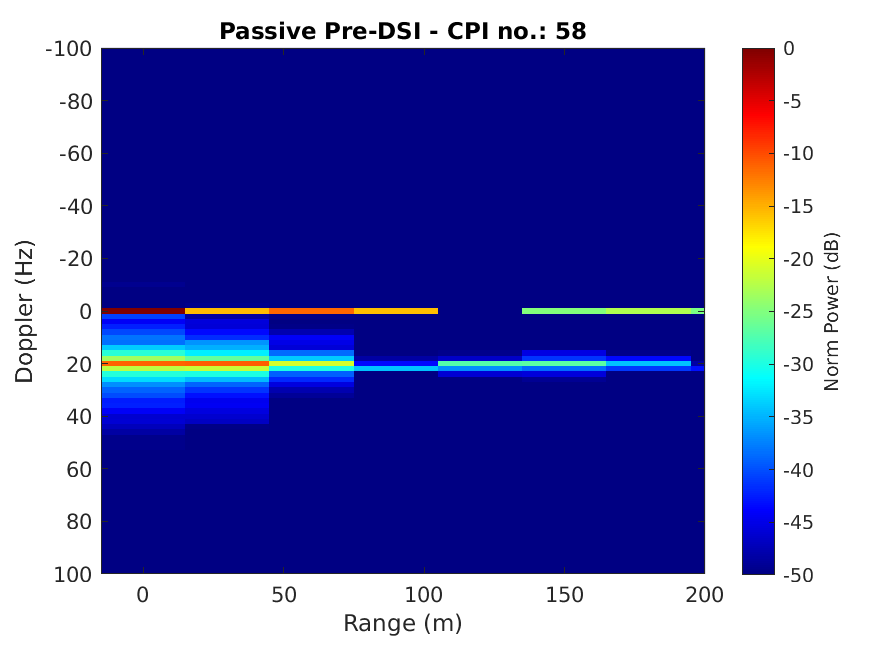
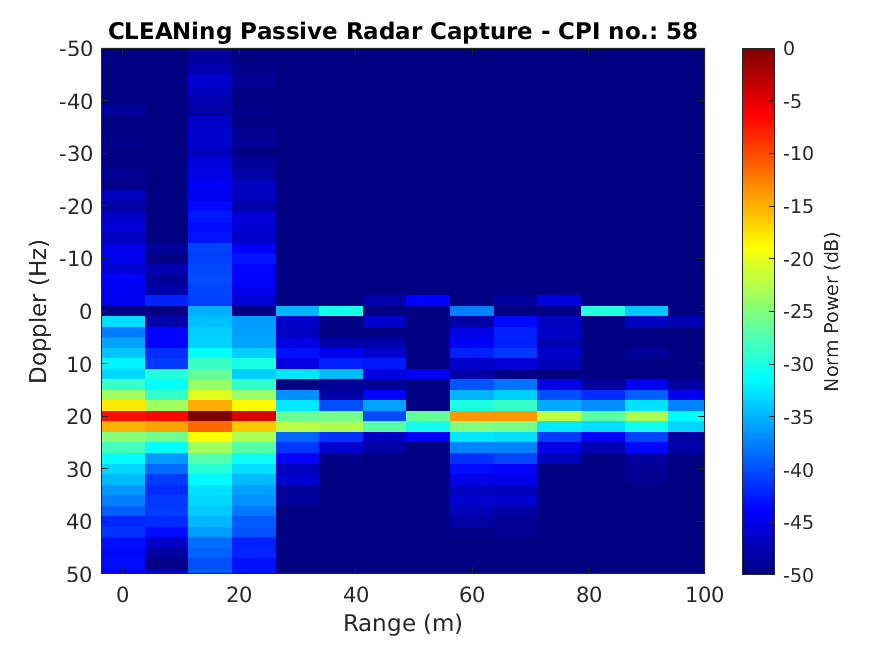
update from precsion tower

diff --git a/hybrid_radar/Analysis Scripts/hybrid_fmcw_DVBT_analysis.m b/hybrid_radar/Analysis Scripts/hybrid_fmcw_DVBT_analysis.m
@@ -4,6 +4,8 @@ addpath('~/repos/bladeRAD/generic_scripts/matlab',...
         '~/repos/bladeRAD/generic_scripts',...
         '~/repos/bladeRAD/generic_scripts/ref_signals/') % path to generic functions
 
+save_directory1 =  "/media/piers/T7/15_09_2022_farm/hybrid/";
+
 process_active_a = true;
 process_passive_a = true;
  
@@ -147,8 +149,8 @@ if process_active_a == true
 %% Process Active data into Range-Doppler Slices
            active.cpi = 0.5; % cohernet proccessing interval (s)
            active.cpi_overlap = 0.5; % overlap between CPIs (watch this - too large will cause slow exceution)
-           active.zero_padding = 1;
-           active.doppler_window = 'blackmanharris';
+           active.zero_padding = 2; % 1 = none; 2 = 100%
+           active.doppler_window = 'Hann';
            active.dynamic_range = 50;
            active.velocity_conv = C*(((1/C)/(active.Fc/C)));
                  active.range_bins = size(MTI_Data,1);
@@ -162,14 +164,14 @@ if process_active_a == true
                                                                  active.doppler_window);   
            
            % Determine Active Data Range and Doppler Axis                                              
-             active.doppler_bins = active.pulses_per_cpi*active.zero_padding;
-             active.doppler_axis = linspace(-active.PRF/2,active.PRF/2,active.doppler_bins);
+             active.doppler_bins = 1:size(active.range_doppler_slices{1},1);
+             active.doppler_axis = linspace(-active.PRF/2,active.PRF/2,size(active.doppler_bins,2));
              active.doppler_velocity_axis = active.doppler_axis * active.velocity_conv;
              active.range_axis = linspace(0,active.max_range_actual,active.range_bins);
              active.range_bins_axis = 1:active.range_bins;
 
            % Create video of range-Doppler slices
-             video_name = exp_dir + "active_range-Doppler_0ZP_hann_wind_Dopppler_Exp_" + Experiment_ID + ".avi";
+             video_name = exp_dir + "active_range-Doppler_0Zactive.range_doppler_slicesP_hann_wind_Dopppler_Exp_" + Experiment_ID + ".avi";
              %video_name = "range-Doppler_log_Exp_" + Experiment_ID + ".avi";       
              video_title = "Active Radar Capture";
              dynamic_range = +50;
@@ -190,7 +192,8 @@ end
 
  %% Passive Processing
  if process_passive_a == true
-    passive.max_range = 70
+    passive.max_range = 50
+    passive.range_zero_padding = 2; % 1 = none, 2 = 100%
     passive.seg_s = 5000; % number of segments per second - analagos to PRF.
     passive.seg_percent = 100;  % percentage of segment used for cross coreclation of 
                             % survallance and reference. Will affect SNR dramatically.
@@ -208,8 +211,8 @@ end
              title("Sur channel time series");    
              fig_name = exp_dir + "Time Domain Signals_" + Experiment_ID + ".jpg";
              saveas(fig,fig_name,'jpeg')
-   % Batch process data and cross correlate  
-         [ref_matrix ,self_ambg_matrix, cc_matrix] = passive_batch_process(ref_channel,sur_channel,passive.seg_s,passive.seg_percent,passive.Fs,passive.max_range,exp_dir);
+   % Batch process data and cross correlate
+         [ref_matrix ,self_ambg_matrix, cc_matrix] = passive_batch_process(ref_channel,sur_channel,passive.seg_s,passive.seg_percent,passive.Fs,passive.max_range,exp_dir,passive.range_zero_padding);
          save(exp_dir + 'passive_matrix','cc_matrix')
     % RTI Plot
         RTI_plot= transpose(10*log10(abs(cc_matrix./max(cc_matrix(:)))));
@@ -217,8 +220,7 @@ end
         time_axis = linspace(0,capture_duration,size(cc_matrix,2));
         figure
         fig = imagesc(Range_bin,time_axis,RTI_plot,[-50,0]);
-            xlim([1 20])
-%             ylim([0 0.0005])
+%             xlim([1 20])
             grid on            
             colorbar
             ylabel('Time (Sec)')
@@ -228,6 +230,7 @@ end
             fig_name = exp_dir + "Passive RTI_" + Experiment_ID + ".jpg";
             saveas(fig,fig_name,'jpeg')
             saveas(fig,fig_name)
+
 
       % CAF of entire capture
         f_axis = linspace(-passive.seg_s/2,passive.seg_s/2,size(cc_matrix,2));
@@ -254,7 +257,7 @@ end
         pad_factor = 1;
         overlap_factor = 0.99;
         [spect,f] = spectrogram(int_bins,l_fft,round(l_fft*overlap_factor),l_fft*pad_factor,passive.seg_s,'centered','yaxis');
-        % spect(pad_factor*l_fft/2-1:pad_factor*l_fft/2+1,:) = 0;
+        % spect(pad_factor*l_fft/2-1Blackman-Harris:pad_factor*l_fft/2+1,:) = 0;
         v=dop2speed(f,C/passive.Fc)*2.237;
         spect= 10*log10(abs(spect./max(spect(:))));
         figure
@@ -276,21 +279,21 @@ end
            passive.PRF = passive.seg_s; %seg_s
            passive.cpi = 0.5; % cohernet proccessing interval (s)
            passive.cpi_overlap = 0.5; % overlap between CPIs (watch this - too large will cause slow exceution)
-           passive.doppler_window = 'hann';
-           passive.zero_padding = 1;
+           passive.doppler_window = 'Hann';
+           passive.dopp_zero_padding = 1;
            passive.dynamic_range = +50;
-           passive.max_range_m = passive.max_range*(1/passive.Fs)/passive.zero_padding * C;      
+           passive.max_range_m = passive.max_range*(1/passive.Fs)/passive.range_zero_padding * C/2;      
      
                 [passive.number_cpi,... 
                  passive.pulses_per_cpi,...
                  passive.range_doppler_slices] = rangeDopplerSlice(cc_matrix,passive.cpi,passive.PRF,...
                                                                    passive.cpi_overlap,...
-                                                                   passive.zero_padding,...
+                                                                   passive.dopp_zero_padding,...
                                                                    passive.doppler_window);  
                 
                  [~,~,passive.self_ambg_slices] = rangeDopplerSlice(self_ambg_matrix,passive.cpi,passive.PRF,...
                                                                    passive.cpi_overlap,...
-                                                                   passive.zero_padding,...
+                                                                   passive.dopp_zero_padding,...
                                                                    passive.doppler_window);  
             
             passive.cpi_stride = round(passive.pulses_per_cpi*(1-passive.cpi_overlap)); % number of pulses to stride each for next CPI
@@ -306,7 +309,7 @@ end
              video_name = exp_dir + "Range_Doppler_Slices" + Experiment_ID + ".avi";
              %video_name = "passive_RangeDoppler_CLEANed_log_Exp_" + Experiment_ID + ".avi";       
              video_title = "Passive Pre-DSI";
-             dynamic_range = +50;
+             dynamic_range = +inf;
              max_range = 200;
              max_doppler = 100;
              frame_rate = 1/(capture_duration/passive.number_cpi);    
@@ -322,7 +325,7 @@ end
                         % integer less than one to avoid unwanted discontinuities
                         % arising from zero values in the range–Doppler surface.
      threshold = 0.005; % cutoff threshold parameter
-     max_iterations = 100; % maximum number of itterations DSI is CLEANed from CAF slice
+     max_iterations = 1000; % maximum number of itterations DSI is CLEANed from CAF slice
      number_rbins = size(passive.range_doppler_slices{1},2);
   
    % perform CLEAN based DSI Cancellation   
@@ -344,8 +347,8 @@ close all
      %video_name = "passive_RangeDoppler_CLEANed_log_Exp_" + Experiment_ID + ".avi";       
      video_title = "CLEANing Passive Radar Capture";
      dynamic_range = 50;
-     max_range = 200;
-     max_doppler = 100;
+     max_range = 100;
+     max_doppler = 50;
      frame_rate = 1/(capture_duration/passive.number_cpi);    
      createVideo(passive.CLEANed_range_doppler_slices,frame_rate,...
                  passive.range_axis,max_range,...
@@ -388,42 +391,46 @@ end
 %% Hybrid Video 
  
    video_name = exp_dir + "hybrid_range-Doppler_Exp_" + Experiment_ID + ".avi";     
-   dynamic_range = 30;
-            createVideos(cpi_matrix_array_norm,...
-                         CLEANed_cpi_matrix_array_norm,...
+   dynamic_range = 50;
+   range_limit = 200;
+   doppler_limit = 20;
+            createVideos(active.range_doppler_slices,...
+                         passive.CLEANed_range_doppler_slices,...
                          frame_rate,...
                          active.range_axis,...
                          passive.range_axis,...
                          -active.doppler_velocity_axis,...
                          passive.doppler_velocity_axis,...
+                         range_limit,...
+                         doppler_limit,...
                          dynamic_range,...
                          video_name,video_title);
                      
 %% Hybrid Range and Doppler Plots 
 
-number_cpi = size(CLEANed_cpi_matrix_array_norm,2);
+number_cpi = size(passive.CLEANed_range_doppler_slices,2);
 passive_range_detections = zeros(number_cpi,1);
 active_range_detections = zeros(number_cpi,1);
 passive_doppler_detections = zeros(number_cpi,1);
 active_doppler_detections = zeros(number_cpi,1);
                      
-passive_range_lookup = ones(size(CLEANed_cpi_matrix_array_norm{1})).*passive.range_axis;
-passive_doppler_lookup = ones(size(CLEANed_cpi_matrix_array_norm{1})).*transpose(passive.doppler_velocity_axis);
+passive_range_lookup = ones(size(passive.CLEANed_range_doppler_slices{1})).*passive.range_axis;
+passive_doppler_lookup = ones(size(passive.CLEANed_range_doppler_slices{1})).*transpose(passive.doppler_velocity_axis);
 
-active_range_lookup = ones(size(cpi_matrix_array_norm{1})).*active.range_axis;
+active_range_lookup = ones(size(active.range_doppler_slices{1})).*active.range_axis;
 
-active_doppler_lookup = ones(size(cpi_matrix_array_norm{1})).*transpose(active.doppler_velocity_axis);
+active_doppler_lookup = ones(size(active.range_doppler_slices{1})).*transpose(active.doppler_velocity_axis);
 
 for i=1:number_cpi   
    i
-   [mag, index] = max(CLEANed_cpi_matrix_array_norm{i}(:));
-   passive_range_detections(i) = passive_range_lookup(index);
+   [mag, index] = max(passive.CLEANed_range_doppler_slices{i}(:));
+   passive_range_detections(i) = passive_range_lookup(index)+10;
    passive_doppler_detections(i) = passive_doppler_lookup(index);
    
    
-%    [mag, index] = max(cpi_matrix_array_norm{i}(:));
-%    active_range_detections(i) = active_range_lookup(index);
-%    active_doppler_detections(i) = active_doppler_lookup(index);                  
+   [mag, index] = max(active.range_doppler_slices{i}(:));
+   active_range_detections(i) = active_range_lookup(index);
+   active_doppler_detections(i) = active_doppler_lookup(index);                  
 end
 
 time_axis = linspace(0,15,number_cpi);
@@ -431,14 +438,14 @@ time_axis = linspace(0,15,number_cpi);
 figure
 p = plot(time_axis,passive_range_detections);
 hold on
-% a = plot(time_axis,active_range_detections);
+a = plot(time_axis,active_range_detections);
 p.Marker = '*';
-% a.Marker = '*';
+a.Marker = '*';
 grid on
 grid minor
 ylabel('Range (m)')
 xlabel('Time (s)')
-ylim([-inf 50])
+% ylim([-inf 50])
 legend('Passive Radar Peak Return','Active Radar Peak Return')
 
 figure
@@ -449,9 +456,9 @@ p.Marker = '*';
 a.Marker = '*';
 grid on
 grid minor
-ylim([-8 8])
+% ylim([-8 8])
 ylabel('Velocity (m/s)')
 xlabel('Time (s)')
 legend('Passive Radar Peak Return','Active Radar Peak Return')
 
-end
+% end

diff --git a/generic_scripts/matlab/passive_batch_process.m b/generic_scripts/matlab/passive_batch_process.m
@@ -1,4 +1,4 @@
-function [dec_ref_channel, self_ambg_matrix, cc_matrix] = passive_batch_process(ref_channel,sur_channel,seg_s,seg_percent,Fs,max_range,exp_dir)
+function [dec_ref_channel, self_ambg_matrix, cc_matrix] = passive_batch_process(ref_channel,sur_channel,seg_s,seg_percent,Fs,max_range,exp_dir,zero_padding)
 %PASSIVE_BATCH_PROCESS Summary of this function goes here
 %   seg_s : number of segments a second. 
 %   seg_percent : percentage of segment used for cross coreclation of 
@@ -35,9 +35,12 @@ function [dec_ref_channel, self_ambg_matrix, cc_matrix] = passive_batch_process(
 %% Window Sur channel
         for i=1:size(seg_ref_channel,2)
         dec_sur_channel(:,i) = windowing(dec_sur_channel(:,i), "Blackman-Harris");
+        dec_ref_channel(:,i) = windowing(dec_ref_channel(:,i), "Blackman-Harris");
         end
 
 %% Cross-Correlate segments of ref and sur
+if zero_padding == 1
+% Time domain implementation
         cc_matrix = complex(zeros((2*max_range)+1, (size(ref_channel,1)/seg_size)));
         ref_self_ambg = complex(zeros((2*max_range)+1, (size(ref_channel,1)/seg_size)));
     % range limited Xcorr
@@ -47,4 +50,39 @@ function [dec_ref_channel, self_ambg_matrix, cc_matrix] = passive_batch_process(
         end
         cc_matrix = cc_matrix(max_range+1:end,:); %take zero shifted to +r_max shifted range bins
         self_ambg_matrix = ref_self_ambg(max_range+1:end,:); %take zero shifted to +r_max shifted range bins
+else
+    % Frequency domain implementation
+        cc_matrix = complex(zeros((2*seg_size)*zero_padding-1, (size(ref_channel,1)/seg_size)));
+        ref_self_ambg = complex(zeros((2*seg_size)*zero_padding-1, (size(ref_channel,1)/seg_size)));
+    % range limited Xcorr
+        for i=1:size(seg_ref_channel,2)
+            
+            % make arrays
+            sur_ch = [ complex(zeros(seg_size-1,1)).' dec_sur_channel(:,i).' ];
+            ref_ch = [ dec_ref_channel(:,i).' complex(zeros(seg_size-1,1)).'  ];
+
+            % Compute FFTs
+            X1 = fft(sur_ch);
+            X2 = fft(ref_ch);
+            % Compute cross-correlation
+            X = X1.*conj(X2);
+            ck = ifft((X),size(cc_matrix,1));
+            cc_matrix(:,i) = ck;      
+
+             % make arrays
+            r1 = [ complex(zeros(seg_size-1,1)).' dec_ref_channel(:,i).' ];
+            r2 = [ dec_ref_channel(:,i).' complex(zeros(seg_size-1,1)).'  ];
+            % Compute FFTs
+            X3 = fft(r1);
+            X4 = fft(r2);
+            % Compute cross-correlation
+            X5 = X3.*conj(X4);
+            sa = ifft((X5),size(ref_self_ambg,1));
+            ref_self_ambg(:,i) = sa;    
+        end
+        hw_point = size(cc_matrix,1)/2;
+        cc_matrix = cc_matrix(hw_point:hw_point+max_range,:); %take zero shifted to +r_max shifted range bins
+        self_ambg_matrix = ref_self_ambg(hw_point:hw_point+max_range,:); %take zero shifted to +r_max shifted range bins
+
+
 end

diff --git a/generic_scripts/matlab/windowing.m b/generic_scripts/matlab/windowing.m
@@ -1,4 +1,4 @@
-function [outputArg1] = windowing(surv_ch, window_function)
+function [outputArg1] = windowing(data, window_function)
 %Applies the specified window function on the surveillance channel.
 %         Description:
 %         ------------
@@ -20,22 +20,22 @@ function [outputArg1] = windowing(surv_ch, window_function)
 %         --------------
 %         
         if window_function == "Rectangular"
-            window = ones(size(surv_ch,1));
+            window = ones(size(data,1));
         elseif window_function == "Flat top"
-            window = flattopwin(size(surv_ch,1));
+            window = flattopwin(size(data,1));
         elseif window_function == "Hamming"
-            window = hamming(size(surv_ch,1));
+            window = hamming(size(data,1));
         elseif window_function == "Hann"
-            window = hann(size(surv_ch,1));
+            window = hann(size(data,1));
 %         elseif window_function == "Tukey":
 %             window = signal.tukey(size(surv_ch))
         elseif window_function == "Blackman"
-            window = blackman(size(surv_ch,1));
+            window = blackman(size(data,1));
         elseif window_function == "Blackman-Harris"
-            window = blackmanharris(size(surv_ch,1));
+            window = blackmanharris(size(data,1));
         else
             print("Window function is not identified");
         end
-        outputArg1 = surv_ch .* window;
+        outputArg1 = data .* window;
 
         end

diff --git a/generic_scripts/matlab/createVideos.m b/generic_scripts/matlab/createVideos.m
@@ -1,4 +1,4 @@
-function createVideo(active_array,passive_array,frame_rate,active_range_axis, passive_range_axis, active_doppler_axis,passive_doppler_axis,dynamic_range,file_name,video_title)
+function createVideo(active_array,passive_array,frame_rate,active_range_axis, passive_range_axis, active_doppler_axis,passive_doppler_axis,range_limit,doppler_limit,dynamic_range,file_name,video_title)
 %CREATE_VIDEO Summary of this function goes here
 %   Detailed explanation goes here
 % create the video writer
@@ -24,9 +24,8 @@ function createVideo(active_array,passive_array,frame_rate,active_range_axis, pa
         xlabel('Range (m)')   
         c = colorbar;
         c.Label.String='Norm Power (dB)';
-        ylim([-100 100]);
-        ylim([-10 10]);
-        xlim([-inf 50]);
+        ylim([-doppler_limit doppler_limit]);
+        xlim([-inf range_limit]);
         colormap jet;
 
         
@@ -39,14 +38,14 @@ function createVideo(active_array,passive_array,frame_rate,active_range_axis, pa
         xlabel('Range (m)')   
         c = colorbar;
         c.Label.String='Norm Power (dB)';
-        ylim([-100 100]);
-        ylim([-10 10]);
-        xlim([-inf 50]);
+        ylim([-doppler_limit doppler_limit]);
+        xlim([-inf range_limit]);
         colormap jet;
         
         
         saveas(fig,'frame','png');
         im = imread('frame.png');
+        im = imresize(im,[875 1200]);
         writeVideo(writerObj, im);
      end
  

diff --git a/generic_scripts/matlab/CLEAN_DSI.m b/generic_scripts/matlab/CLEAN_DSI.m
@@ -45,13 +45,13 @@ if iscell(cross_ambg_matrix_array)
          iteration = 0;   
          while iteration <= max_iterations
             iteration = iteration + 1;
-            [scale_factor, delay] = max(CLEANed_cpi_matrix_array_norm{i}(zero_Doppler_cut_index,:)) % max value and delay on zero-Doppler-cut
-            zero_doppler_peak = 10*log(abs(scale_factor))
+            [scale_factor, delay] = max(CLEANed_cpi_matrix_array_norm{i}(zero_Doppler_cut_index,:)); % max value and delay on zero-Doppler-cut
+            zero_doppler_peak = 10*log(abs(scale_factor));
     
-            [max_val, index] = max(CLEANed_cpi_matrix_array_norm{i}(:))
-            cpi_peak = 10*log(abs(CLEANed_cpi_matrix_array_norm{i}(8283)))
+            [max_val, index] = max(CLEANed_cpi_matrix_array_norm{i}(:));
+            cpi_peak = 10*log(abs(CLEANed_cpi_matrix_array_norm{i}(8283)));
     
-            relative_pwr = cpi_peak - zero_doppler_peak
+            relative_pwr = cpi_peak - zero_doppler_peak;
          
 %             figure
 %             slice = 10*log(abs(CLEANed_cpi_matrix_array_norm{i}./max(CLEANed_cpi_matrix_array_norm{i}(:)))); 

diff --git a/generic_scripts/matlab/rangeDopplerSlice.m b/generic_scripts/matlab/rangeDopplerSlice.m
@@ -20,8 +20,7 @@ function [number_cpi,pulses_per_cpi,range_doppler_slices] = rangeDopplerSlice(ra
                  % window section of pulses from raw data
                  cpi_window = radar_matrix( :,1 + ((i-1)*cpi_stride) : 1 + pulses_per_cpi + (i-1)*cpi_stride );
                  % window data to reduce sidelobes
-                 w = transpose(window(window_type,size(pulses_per_cpi,2)));
-                 cpi_window = cpi_window .* w;
+                 %cpi_window = windowing(cpi_window, window_type);
                  % fft cpi window to get CAF slice
                  caf = fftshift(fft(cpi_window,doppler_bins,2),2);
                  % normalise cpi slice to 0
